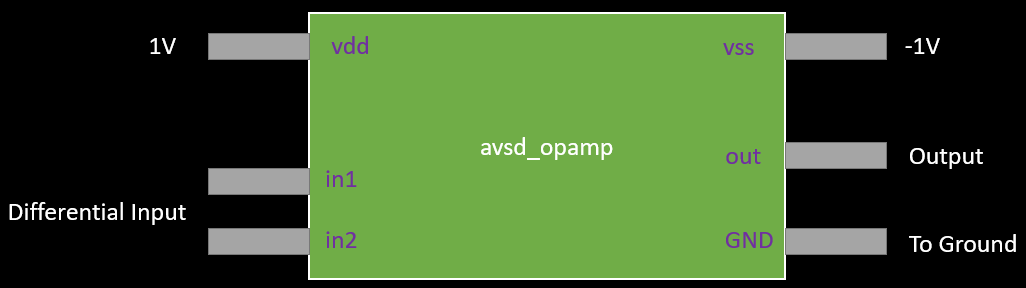
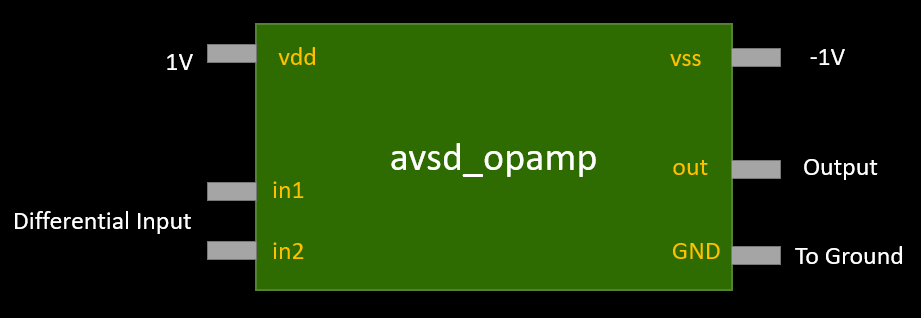
Block Diagram Change and Minor changes in Readme

diff --git a/README.md b/README.md
@@ -14,7 +14,6 @@ This project presents the design of a Two Stage CMOS Operational Amplifier using
     - [Ngspice Installation](#Ngspice-Installation)
     - [SkyWater PDK Installation](#SkyWater-PDK-Installation)
     - [Magic Installation](#Magic-Installation)
-
 - [Clone This Project](#Clone-This-Project)
 - [Pre Layout Schematic and Simulations](#Pre-Layout-Schematic-and-Simulations)
 - [Layout Design Using Magic](#Layout-Design-Using-Magic)
@@ -174,10 +173,12 @@ Or download and extract the files
 
 # Pre Layout Schematic and Simulations
 - Go to the directory  `pre_layout/pre_layout_simulation`  <br/>
+
     ```
     $ cd pre_layout/pre_layout_simulation
     ```
 - Execute each and every `.cir` using `ngspice` command from terminal <br/>
+
     ```
     $ ngspice <file-name>
     ```
@@ -248,7 +249,7 @@ $ ngspice slew_rate.cir
 
 ![Slew Rate](pre_layout/pre_layout_plots/slew_rate.png)
 
-A much easier plot to see slew rate could be obtained by chaning the analysis as
+A much easier plot to see slew rate could be obtained by changing the analysis as
 ```
 .tran 0.01u 2u
 ```
@@ -289,10 +290,12 @@ cp avsd_opamp/skywater_pdk/sky130A.tech <target-destination>
 
 # Post Layout Simulations
 - Go to the directory  `post_layout/post_layout_simulation` by executing the command from parent directory<br/>
+
     ```
     $ cd post_layout/post_layout_simulation
     ```
 - Execute each and every `.cir` using `ngspice` command from terminal<br/>
+
     ```
     $ ngspice <file-name>
     ```
@@ -363,7 +366,7 @@ $ ngspice slew_rate.cir
 
 ![Slew Rate](post_layout/post_layout_plots/slew_rate.png)
 
-A much easier plot to see slew rate could be obtained by chaning the analysis as
+A much easier plot to see slew rate could be obtained by changing the analysis as
 ```
 .tran 0.01u 2u
 ```
@@ -381,7 +384,7 @@ Note:
 <ul>
     <li>For performing any of the simulation mentioned in this repository the <b>sky130_fd_pr</b> folder is necessary.
     <li>All simulation given in this repository are properly linked to the <b>sky130_fd_pr</b> library. Hence files execute with no error if the <i> folders are kept as such</i>
-    <li>For any external simulation using SkyWater Models, it a must to properly include the library
+    <li>For any external simulation using SkyWater Models, it is a must to properly include the library
 </ul>
 </blockquote>
 
